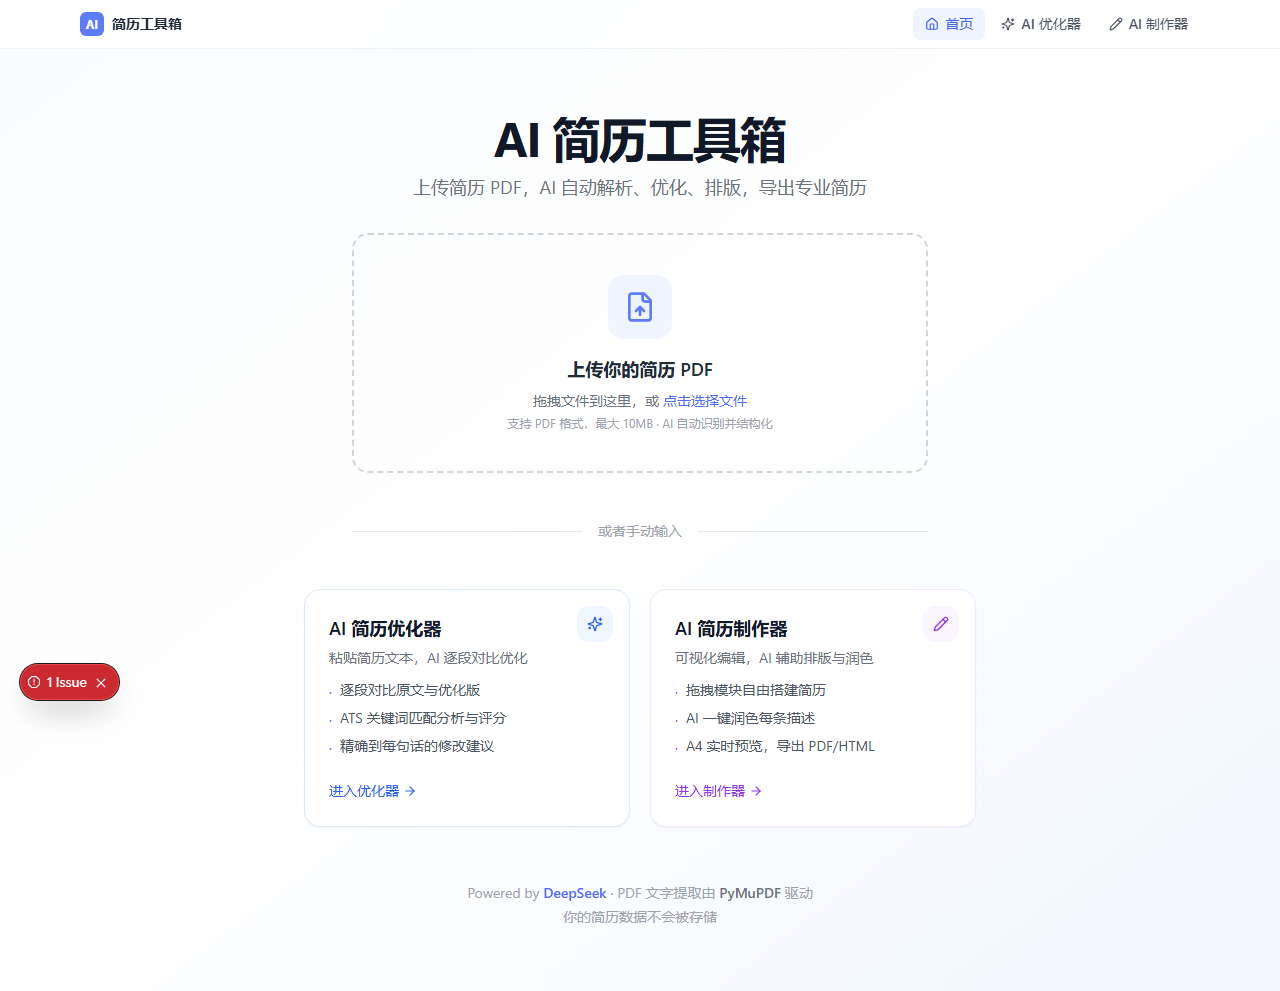
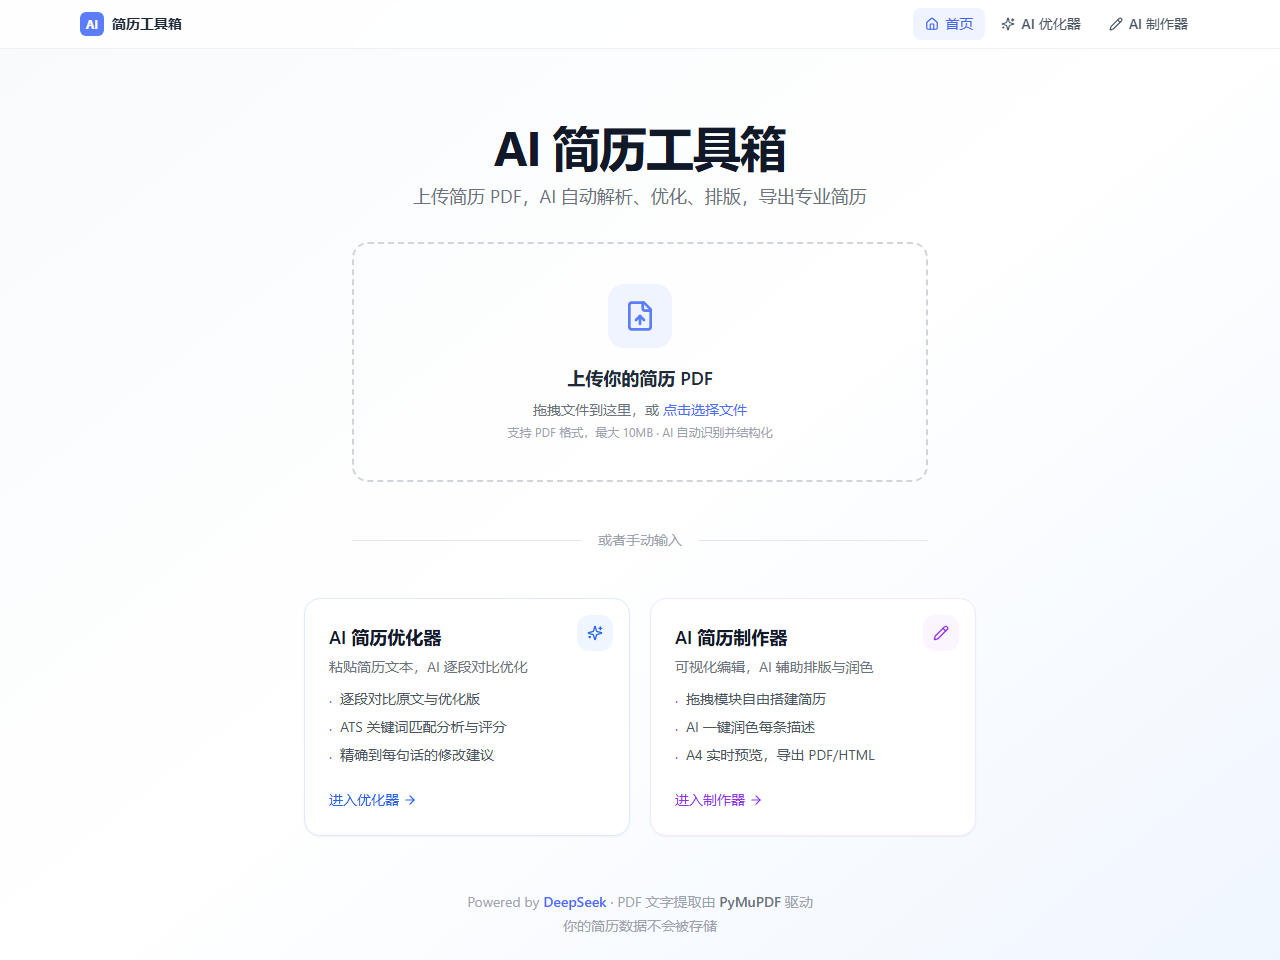
Clean AI portfolio page presentation

diff --git a/ai.html b/ai.html
@@ -65,16 +65,14 @@
         }
 
         .fade-in,
-        .ai-overview,
-        .ai-note {
+        .ai-overview {
             opacity: 0;
             transform: translateY(22px);
             transition: opacity 0.65s ease, transform 0.65s cubic-bezier(.2,.8,.2,1);
         }
 
         .fade-in.is-visible,
-        .ai-overview.is-visible,
-        .ai-note.is-visible {
+        .ai-overview.is-visible {
             opacity: 1;
             transform: translateY(0);
         }
@@ -82,7 +80,7 @@
         body.ai-trend header {
             position: relative;
             display: grid;
-            grid-template-columns: minmax(0, 1fr) minmax(280px, 0.42fr);
+            grid-template-columns: minmax(0, 1fr);
             align-items: end;
             gap: clamp(22px, 4vw, 44px);
         }
@@ -140,37 +138,6 @@
             line-height: 1.85;
         }
 
-        .ai-hero-metrics {
-            position: relative;
-            z-index: 1;
-            display: grid;
-            gap: 12px;
-        }
-
-        .ai-hero-metrics div {
-            min-height: 92px;
-            padding: 16px;
-            border: 1px solid rgba(255,255,255,0.16);
-            border-radius: 22px;
-            background: rgba(255,255,255,0.1);
-            backdrop-filter: blur(18px);
-        }
-
-        .ai-hero-metrics strong {
-            display: block;
-            color: white;
-            font-size: 1.7rem;
-            line-height: 1;
-        }
-
-        .ai-hero-metrics span {
-            display: block;
-            margin-top: 9px;
-            color: rgba(255,255,255,0.72);
-            font-size: 0.9rem;
-            font-weight: 700;
-        }
-
         .ai-overview {
             margin-bottom: 34px;
         }
@@ -215,40 +182,6 @@
 
         .ai-preview:hover img {
             transform: scale(1.04);
-        }
-
-        .ai-preview:after {
-            content: "";
-            position: absolute;
-            inset: 0;
-            background: linear-gradient(to bottom, transparent 46%, rgba(17,19,24,0.82));
-        }
-
-        .ai-preview-label {
-            position: absolute;
-            left: 18px;
-            right: 18px;
-            bottom: 18px;
-            z-index: 1;
-            color: white;
-        }
-
-        .ai-preview-label span {
-            display: inline-flex;
-            margin-bottom: 10px;
-            padding: 7px 11px;
-            border-radius: 999px;
-            background: rgba(255,255,255,0.16);
-            backdrop-filter: blur(14px);
-            font-size: 0.78rem;
-            font-weight: 900;
-        }
-
-        .ai-preview-label h4 {
-            margin: 0;
-            color: white;
-            font-size: clamp(1.45rem, 2.4vw, 2.1rem);
-            line-height: 1.2;
         }
 
         .ai-detail {
@@ -296,21 +229,6 @@
             color: #171B21;
             font-weight: 800;
             line-height: 1.45;
-        }
-
-        .tool-list {
-            display: flex;
-            flex-wrap: wrap;
-            gap: 8px;
-        }
-
-        .tool-list span {
-            padding: 8px 11px;
-            border-radius: 999px;
-            color: rgba(17,19,24,0.78);
-            background: rgba(17,19,24,0.07);
-            font-size: 0.84rem;
-            font-weight: 900;
         }
 
         .ai-video-project {
@@ -416,7 +334,7 @@
 
         .ai-actions {
             display: grid;
-            grid-template-columns: repeat(2, minmax(0, 1fr));
+            grid-template-columns: minmax(0, 1fr);
             gap: 12px;
         }
 
@@ -439,44 +357,13 @@
             color: white;
         }
 
-        .ai-note {
-            display: grid;
-            grid-template-columns: minmax(0, 1fr) auto;
-            align-items: center;
-            gap: 22px;
-            margin: 10px 0 74px;
-            padding: clamp(22px, 3vw, 32px);
-            border-radius: 28px;
-            color: white;
-            background:
-                linear-gradient(135deg, rgba(17,19,24,0.94), rgba(31,50,62,0.92)),
-                radial-gradient(circle at 86% 20%, rgba(0,168,120,0.36), transparent 32%);
-            box-shadow: 0 24px 70px rgba(17,19,24,0.18);
-        }
-
-        .ai-note p {
-            margin: 0;
-            font-size: clamp(1.12rem, 2vw, 1.55rem);
-            line-height: 1.75;
-            font-weight: 800;
-        }
-
-        .ai-note span {
-            color: rgba(255,255,255,0.24);
-            font-family: "Playfair Display", serif;
-            font-size: clamp(3rem, 8vw, 6rem);
-            font-weight: 700;
-            line-height: 1;
-        }
-
         body.ai-trend footer {
             margin-bottom: 28px;
         }
 
         @media (max-width: 980px) {
             body.ai-trend header,
-            .ai-project-layout,
-            .ai-note {
+            .ai-project-layout {
                 grid-template-columns: 1fr;
             }
 
@@ -546,12 +433,6 @@
                     AI tools built for practical publishing and video workflow scenarios.
                 </p>
             </div>
-
-            <div class="ai-hero-metrics" aria-label="AI 作品概览">
-                <div><strong>03</strong><span>AI 项目与视频样本</span></div>
-                <div><strong>Live</strong><span>可直接访问体验</span></div>
-                <div><strong>Workflow</strong><span>覆盖真实使用流程</span></div>
-            </div>
         </header>
 
         <section class="ai-overview">
@@ -567,10 +448,6 @@
                 <div class="ai-project-layout">
                     <div class="ai-preview">
                         <img src="assets/ai-resume-preview.png" alt="AI 简历工具箱网页预览">
-                        <div class="ai-preview-label">
-                            <span>AI RESUME TOOLKIT</span>
-                            <h4>上传简历 → AI 优化比对 → 制作器逐字段润色 → 导出 PDF</h4>
-                        </div>
                     </div>
                     <div class="ai-detail">
                         <p>
@@ -580,9 +457,6 @@
                             <div class="workflow-step"><i class="fas fa-upload"></i><span>上传简历，AI 逐段对比并给出优化建议</span></div>
                             <div class="workflow-step"><i class="fas fa-magic"></i><span>制作器 AI 逐字段润色 + 全局建议侧栏</span></div>
                             <div class="workflow-step"><i class="fas fa-file-pdf"></i><span>AI 排版适配 + Puppeteer 服务端 PDF 导出</span></div>
-                        </div>
-                        <div class="tool-list">
-                            <span>Next.js 15</span><span>React 19</span><span>TypeScript</span><span>Tailwind CSS</span><span>DeepSeek API</span><span>Puppeteer</span><span>Railway</span>
                         </div>
                         <div class="ai-actions">
                             <a class="project-link" href="https://powerful-mercy-production-82dc.up.railway.app" target="_blank" rel="noopener noreferrer">
@@ -598,10 +472,6 @@
                 <div class="ai-project-layout">
                     <div class="ai-preview">
                         <img src="assets/ai-wechat-preview.png" alt="公众号富文本转换器网页预览">
-                        <div class="ai-preview-label">
-                            <span>AI PUBLISHING TOOL</span>
-                            <h4>面向公众号发布的内容排版与富文本转换工具</h4>
-                        </div>
                     </div>
                     <div class="ai-detail">
                         <p>
@@ -611,9 +481,6 @@
                             <div class="workflow-step"><i class="fas fa-pen-nib"></i><span>输入或整理公众号文章内容</span></div>
                             <div class="workflow-step"><i class="fas fa-palette"></i><span>生成适合微信阅读的排版样式</span></div>
                             <div class="workflow-step"><i class="fas fa-copy"></i><span>转换为可复制到公众号后台的富文本</span></div>
-                        </div>
-                        <div class="tool-list">
-                            <span>内容工具</span><span>富文本转换</span><span>排版预览</span><span>GitHub Pages</span><span>前端交互</span>
                         </div>
                         <div class="ai-actions">
                             <a class="project-link" href="https://kchen2897-png.github.io/wechat-publisher-studio/" target="_blank" rel="noopener noreferrer">
@@ -639,23 +506,23 @@
                 <div class="ai-video-showcase" aria-label="凯迪仕实习 AI 视频样本">
                     <div class="ai-video-card">
                         <div class="ai-video-frame">
-                            <video src="assets/kadish-ai-video-01.mp4" poster="assets/kadish-ai-video-sample-01.webp" controls preload="metadata" playsinline></video>
+                            <video src="assets/kadish-ai-video-01.mp4" controls preload="metadata" playsinline></video>
                         </div>
                     </div>
                     <div class="ai-video-card">
                         <div class="ai-video-frame">
-                            <video src="assets/kadish-ai-video-02.mp4" poster="assets/kadish-ai-video-sample-02.webp" controls preload="metadata" playsinline></video>
+                            <video src="assets/kadish-ai-video-02.mp4" controls preload="metadata" playsinline></video>
                         </div>
                     </div>
                     <div class="ai-video-card">
                         <div class="ai-video-frame">
-                            <video src="assets/kadish-ai-video-03.mp4" poster="assets/kadish-ai-video-sample-03.webp" controls preload="metadata" playsinline></video>
+                            <video src="assets/kadish-ai-video-03.mp4" controls preload="metadata" playsinline></video>
                         </div>
                     </div>
                 </div>
 
                 <div>
-                    <p class="ai-process-title">制作流程 / Production Workflow</p>
+                    <p class="ai-process-title">制作流程</p>
                     <div class="workflow-grid ai-process-grid">
                         <div class="workflow-step"><i class="fas fa-lightbulb"></i><span>构思开头创意，确定智能门锁短视频的第一眼吸引点</span></div>
                         <div class="workflow-step"><i class="fas fa-image"></i><span>使用 Flow 生成关键画面，建立人物、门口环境和产品场景</span></div>
@@ -668,12 +535,6 @@
 
             </div>
         </section>
-
-        <section class="ai-note" aria-label="AI 作品定位说明">
-            <p>AI 作品页的作用，是把“能做页面”进一步展示为“能把模型、内容流程和真实部署串起来”。</p>
-            <span>AI</span>
-        </section>
-
         <footer>
             <p>© 2025 传媒人作品集. <span class="english-text">All Rights Reserved.</span></p>
         </footer>
@@ -700,7 +561,7 @@
             progress.style.width = `${progressWidth}%`;
         };
 
-        const fadeEls = document.querySelectorAll(".fade-in, .ai-overview, .ai-note");
+        const fadeEls = document.querySelectorAll(".fade-in, .ai-overview");
         const observer = new IntersectionObserver((entries) => {
             entries.forEach((entry) => {
                 if (entry.isIntersecting) {
